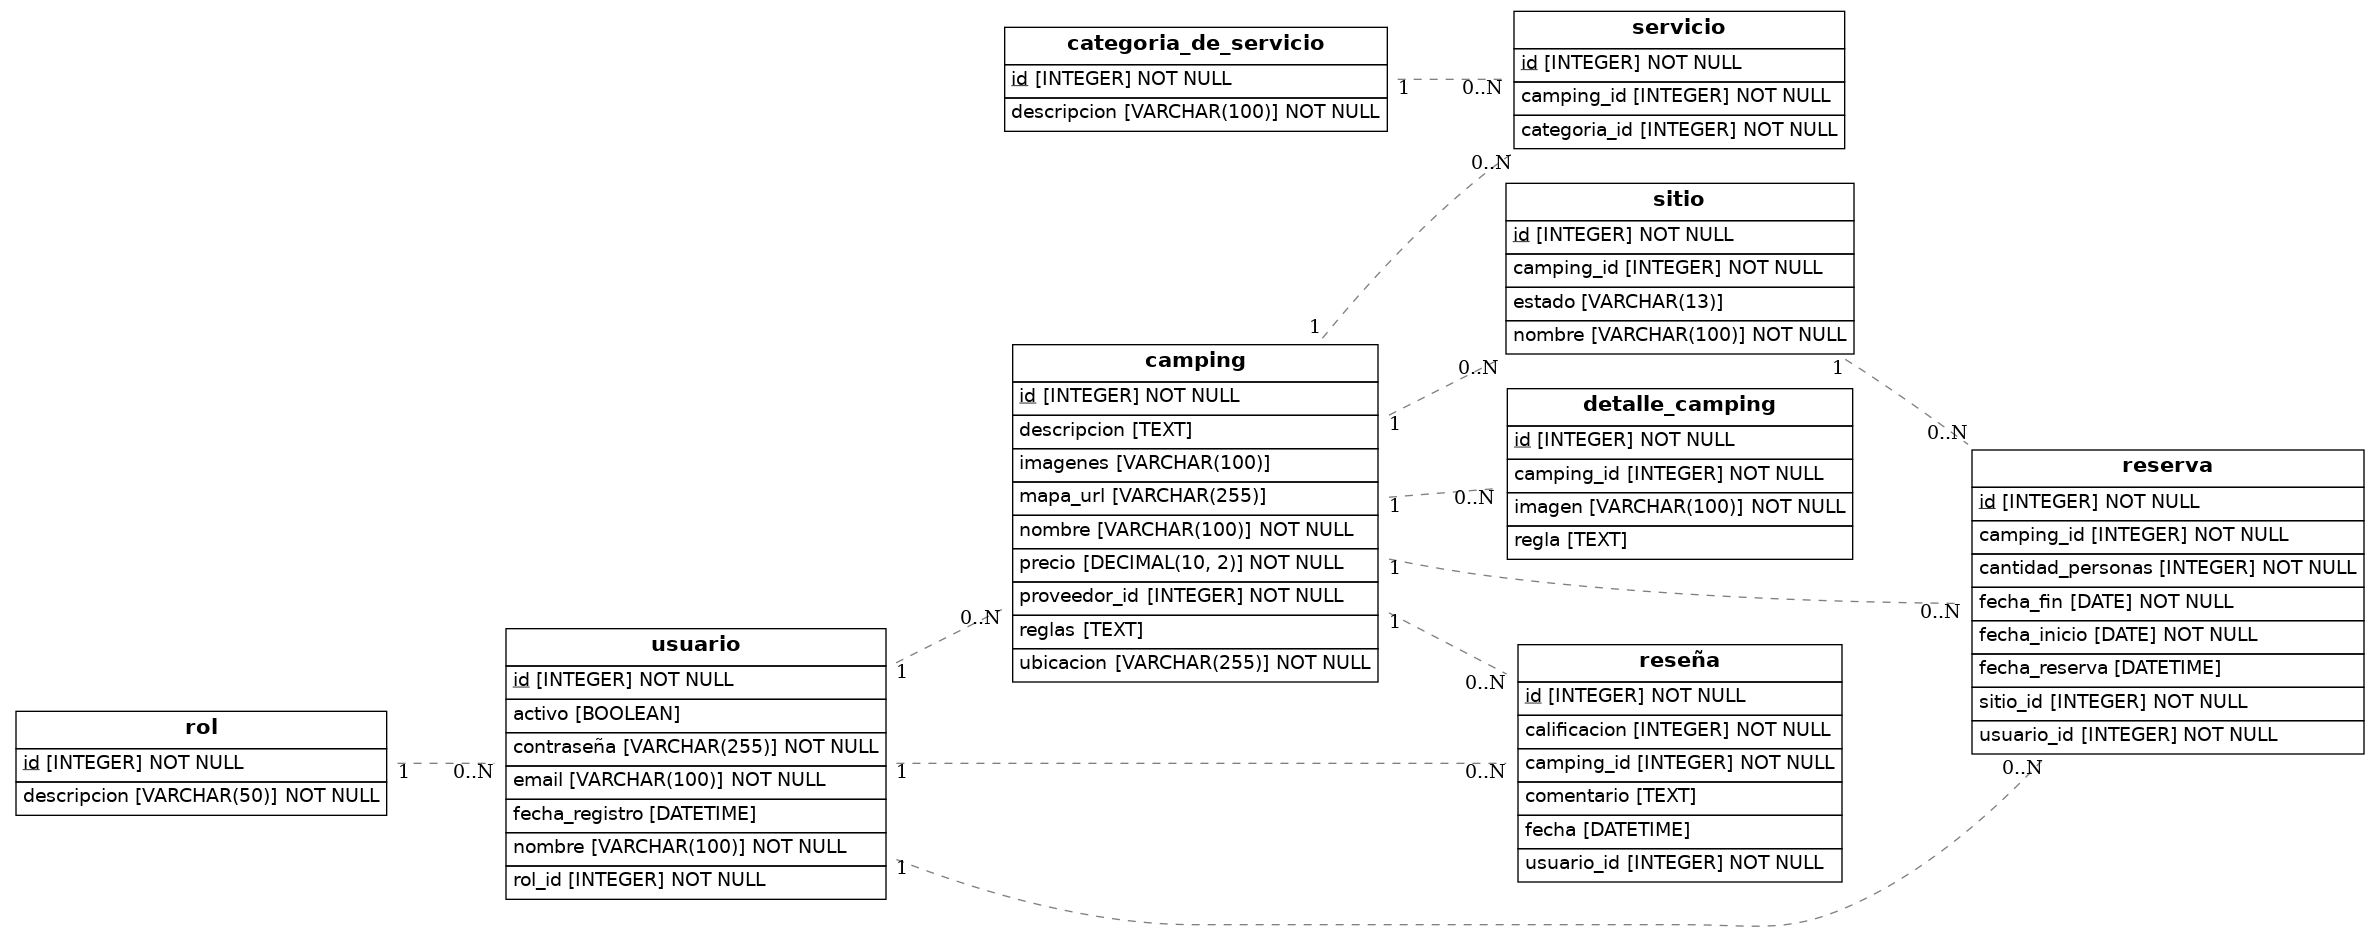
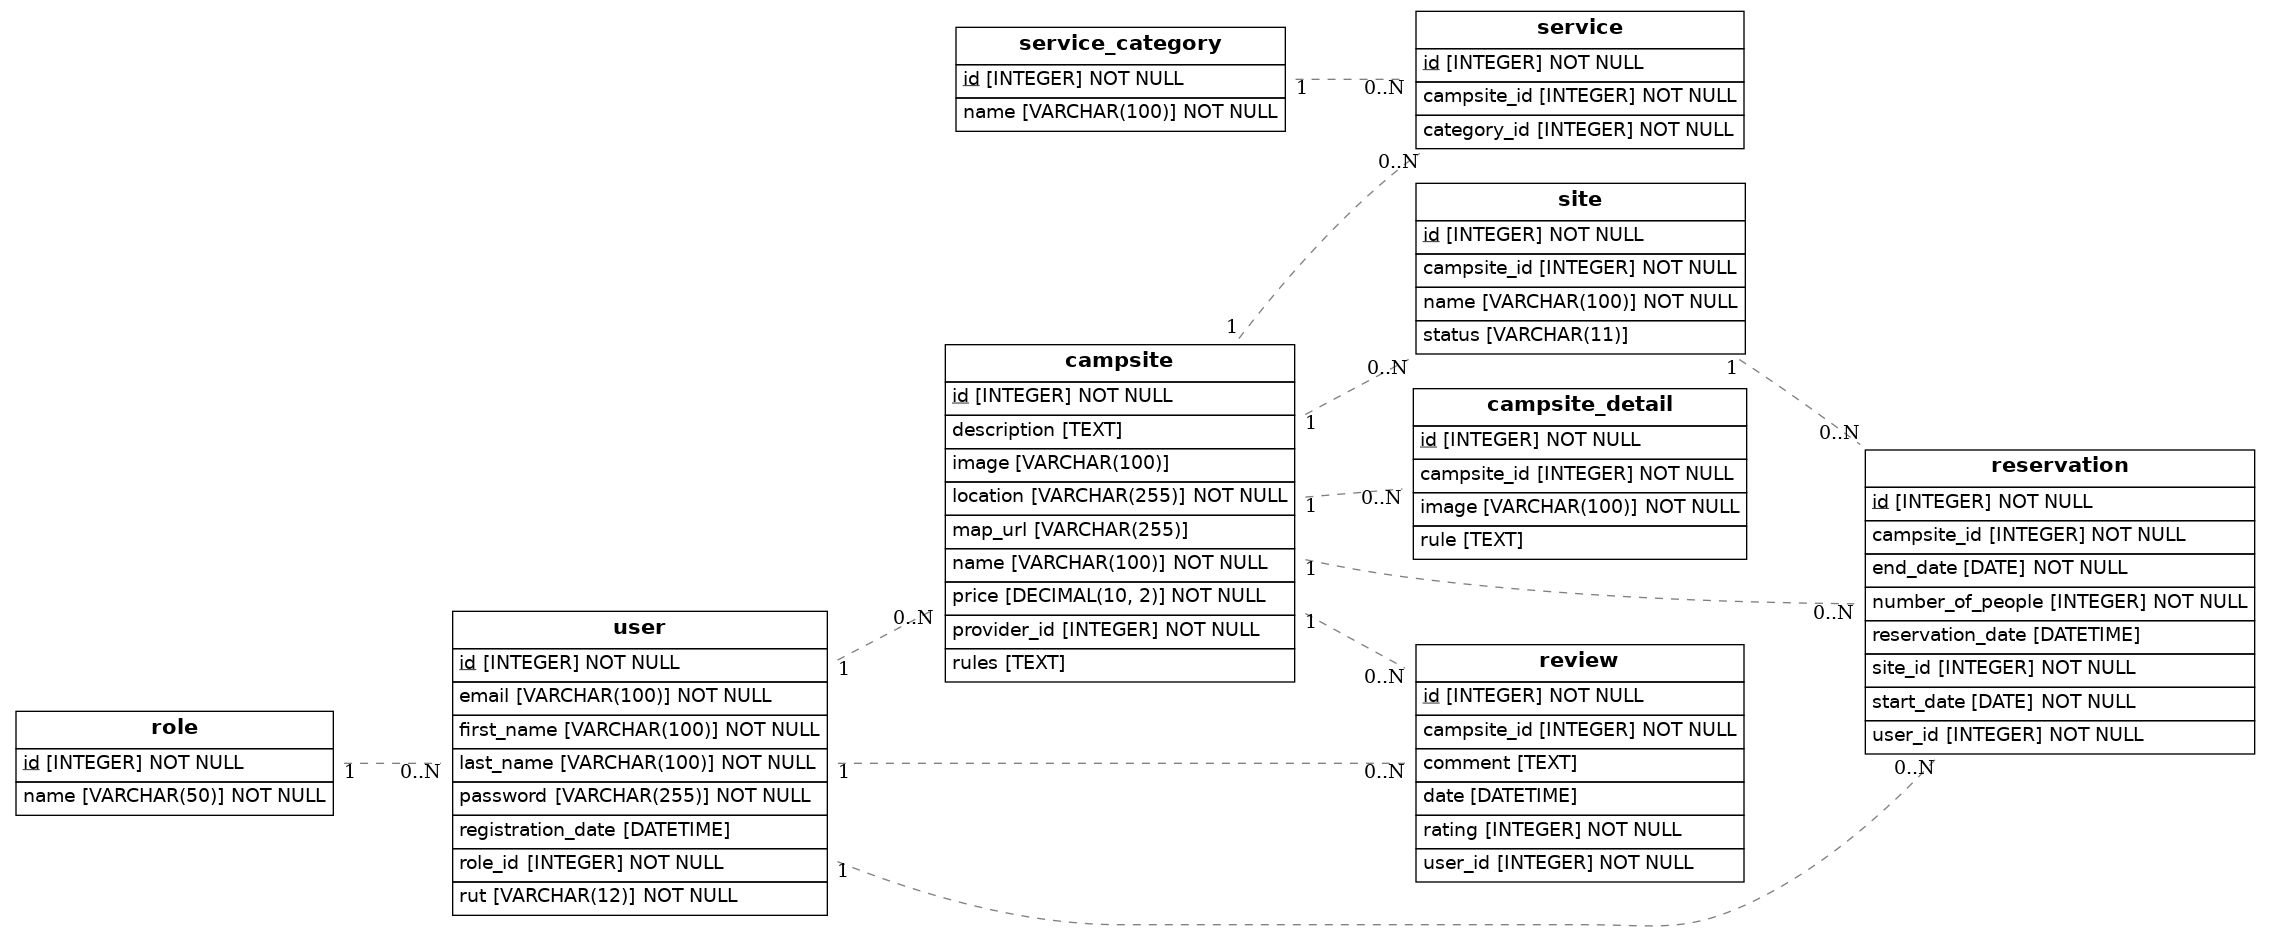
finale

diff --git a/src/models.py b/src/models.py
@@ -1,104 +1,105 @@
 import os
 import sys
-from sqlalchemy import Column, ForeignKey, Integer, String, Date, DateTime, DECIMAL, Text, Boolean, Enum
+from sqlalchemy import Column, ForeignKey, Integer, String, Date, DateTime, DECIMAL, Text, Enum
 from sqlalchemy.orm import relationship, declarative_base
 from sqlalchemy import create_engine
 from eralchemy2 import render_er
 
 Base = declarative_base()
 
-class Rol(Base):
-    __tablename__ = 'rol'
+class Role(Base):
+    __tablename__ = 'role'
     id = Column(Integer, primary_key=True, autoincrement=True)
-    descripcion = Column(String(50), nullable=False)
+    name = Column(String(50), nullable=False)
 
-class Usuario(Base):
-    __tablename__ = 'usuario'
+class User(Base):
+    __tablename__ = 'user'
     id = Column(Integer, primary_key=True, autoincrement=True)
-    nombre = Column(String(100), nullable=False)
+    first_name = Column(String(100), nullable=False)
+    last_name = Column(String(100), nullable=False)
+    rut = Column(String(12), unique=True, nullable=False)
     email = Column(String(100), unique=True, nullable=False)
-    contraseña = Column(String(255), nullable=False)
-    rol_id = Column(Integer, ForeignKey('rol.id'), nullable=False)
-    fecha_registro = Column(DateTime, default='CURRENT_TIMESTAMP')
-    activo = Column(Boolean, default=True)
+    password = Column(String(255), nullable=False)
+    role_id = Column(Integer, ForeignKey('role.id'), nullable=False)
+    registration_date = Column(DateTime, default='CURRENT_TIMESTAMP')
     
-    rol = relationship("Rol")
+    role = relationship("Role")
 
-class Camping(Base):
-    __tablename__ = 'camping'
+class Campsite(Base):
+    __tablename__ = 'campsite'
     id = Column(Integer, primary_key=True, autoincrement=True)
-    proveedor_id = Column(Integer, ForeignKey('usuario.id'), nullable=False)
-    nombre = Column(String(100), nullable=False)
-    ubicacion = Column(String(255), nullable=False)
-    descripcion = Column(Text, nullable=True)
-    precio = Column(DECIMAL(10, 2), nullable=False)
-    reglas = Column(Text, nullable=True)
-    mapa_url = Column(String(255), nullable=True)
-    imagenes = Column(String(100), nullable=True)  # Cambiado de JSON a VARCHAR(100)
+    provider_id = Column(Integer, ForeignKey('user.id'), nullable=False)
+    name = Column(String(100), nullable=False)
+    location = Column(String(255), nullable=False)
+    description = Column(Text, nullable=True)
+    price = Column(DECIMAL(10, 2), nullable=False)
+    rules = Column(Text, nullable=True)
+    map_url = Column(String(255), nullable=True)
+    image = Column(String(100), nullable=True)  # Cambiado de 'images' a 'image'
     
-    proveedor = relationship("Usuario")
-    servicios = relationship("Servicio", back_populates="camping")
-    zonas = relationship("Sitio", back_populates="camping")
-    detalles = relationship("DetalleCamping", back_populates="camping")
+    provider = relationship("User")
+    services = relationship("Service", back_populates="campsite")
+    zones = relationship("Site", back_populates="campsite")
+    details = relationship("CampsiteDetail", back_populates="campsite")
 
-class Reserva(Base):
-    __tablename__ = 'reserva'
+class Reservation(Base):
+    __tablename__ = 'reservation'
     id = Column(Integer, primary_key=True, autoincrement=True)
-    usuario_id = Column(Integer, ForeignKey('usuario.id'), nullable=False)
-    camping_id = Column(Integer, ForeignKey('camping.id'), nullable=False)
-    sitio_id = Column(Integer, ForeignKey('sitio.id'), nullable=False)  # Nuevo campo
-    fecha_inicio = Column(Date, nullable=False)
-    fecha_fin = Column(Date, nullable=False)
-    cantidad_personas = Column(Integer, nullable=False)  # Cambiado de 'total' a 'cantidad_personas'
-    fecha_reserva = Column(DateTime, default='CURRENT_TIMESTAMP')
+    user_id = Column(Integer, ForeignKey('user.id'), nullable=False)
+    campsite_id = Column(Integer, ForeignKey('campsite.id'), nullable=False)
+    site_id = Column(Integer, ForeignKey('site.id'), nullable=False)
+    start_date = Column(Date, nullable=False)
+    end_date = Column(Date, nullable=False)
+    number_of_people = Column(Integer, nullable=False)
+    reservation_date = Column(DateTime, default='CURRENT_TIMESTAMP')
     
-    usuario = relationship("Usuario")
-    camping = relationship("Camping")
-    sitio = relationship("Sitio")
+    user = relationship("User")
+    campsite = relationship("Campsite")
+    site = relationship("Site")
 
-class Reseña(Base):
-    __tablename__ = 'reseña'
+class Review(Base):
+    __tablename__ = 'review'
     id = Column(Integer, primary_key=True, autoincrement=True)
-    usuario_id = Column(Integer, ForeignKey('usuario.id'), nullable=False)
-    camping_id = Column(Integer, ForeignKey('camping.id'), nullable=False)
-    comentario = Column(Text, nullable=True)
-    calificacion = Column(Integer, nullable=False)
-    fecha = Column(DateTime, default='CURRENT_TIMESTAMP')
+    user_id = Column(Integer, ForeignKey('user.id'), nullable=False)
+    campsite_id = Column(Integer, ForeignKey('campsite.id'), nullable=False)
+    comment = Column(Text, nullable=True)
+    rating = Column(Integer, nullable=False)
+    date = Column(DateTime, default='CURRENT_TIMESTAMP')
     
-    usuario = relationship("Usuario")
-    camping = relationship("Camping")
+    user = relationship("User")
+    campsite = relationship("Campsite")
 
-class CategoriaDeServicio(Base):
-    __tablename__ = 'categoria_de_servicio'
+class ServiceCategory(Base):
+    __tablename__ = 'service_category'
     id = Column(Integer, primary_key=True, autoincrement=True)
-    descripcion = Column(String(100), nullable=False)
+    name = Column(String(100), nullable=False)
 
-class Servicio(Base):
-    __tablename__ = 'servicio'
+class Service(Base):
+    __tablename__ = 'service'
     id = Column(Integer, primary_key=True, autoincrement=True)
-    camping_id = Column(Integer, ForeignKey('camping.id'), nullable=False)
-    categoria_id = Column(Integer, ForeignKey('categoria_de_servicio.id'), nullable=False)
+    campsite_id = Column(Integer, ForeignKey('campsite.id'), nullable=False)
+    category_id = Column(Integer, ForeignKey('service_category.id'), nullable=False)
     
-    camping = relationship("Camping", back_populates="servicios")
-    categoria = relationship("CategoriaDeServicio")
+    campsite = relationship("Campsite", back_populates="services")
+    category = relationship("ServiceCategory")
 
-class Sitio(Base):
-    __tablename__ = 'sitio'
+class Site(Base):
+    __tablename__ = 'site'
     id = Column(Integer, primary_key=True, autoincrement=True)
-    nombre = Column(String(100), nullable=False)  # Nombre o descripción de la zona
-    camping_id = Column(Integer, ForeignKey('camping.id'), nullable=False)
-    estado = Column(Enum('disponible', 'no_disponible', name='estado_zona'), default='disponible')
+    name = Column(String(100), nullable=False)
+    campsite_id = Column(Integer, ForeignKey('campsite.id'), nullable=False)
+    status = Column(Enum('available', 'unavailable', name='site_status'), default='available')
     
-    camping = relationship("Camping", back_populates="zonas")
+    campsite = relationship("Campsite", back_populates="zones")
 
-class DetalleCamping(Base):
-    __tablename__ = 'detalle_camping'
+class CampsiteDetail(Base):
+    __tablename__ = 'campsite_detail'
     id = Column(Integer, primary_key=True, autoincrement=True)
-    camping_id = Column(Integer, ForeignKey('camping.id'), nullable=False)
-    imagen = Column(String(100), nullable=False)  # URL de la imagen
-    regla = Column(Text, nullable=True)  # Regla asociada
+    campsite_id = Column(Integer, ForeignKey('campsite.id'), nullable=False)
+    image = Column(String(100), nullable=False)
+    rule = Column(Text, nullable=True)
     
-    camping = relationship("Camping", back_populates="detalles")
+    campsite = relationship("Campsite", back_populates="details")
 
 ## Draw from SQLAlchemy base
 render_er(Base, 'diagram.png')
